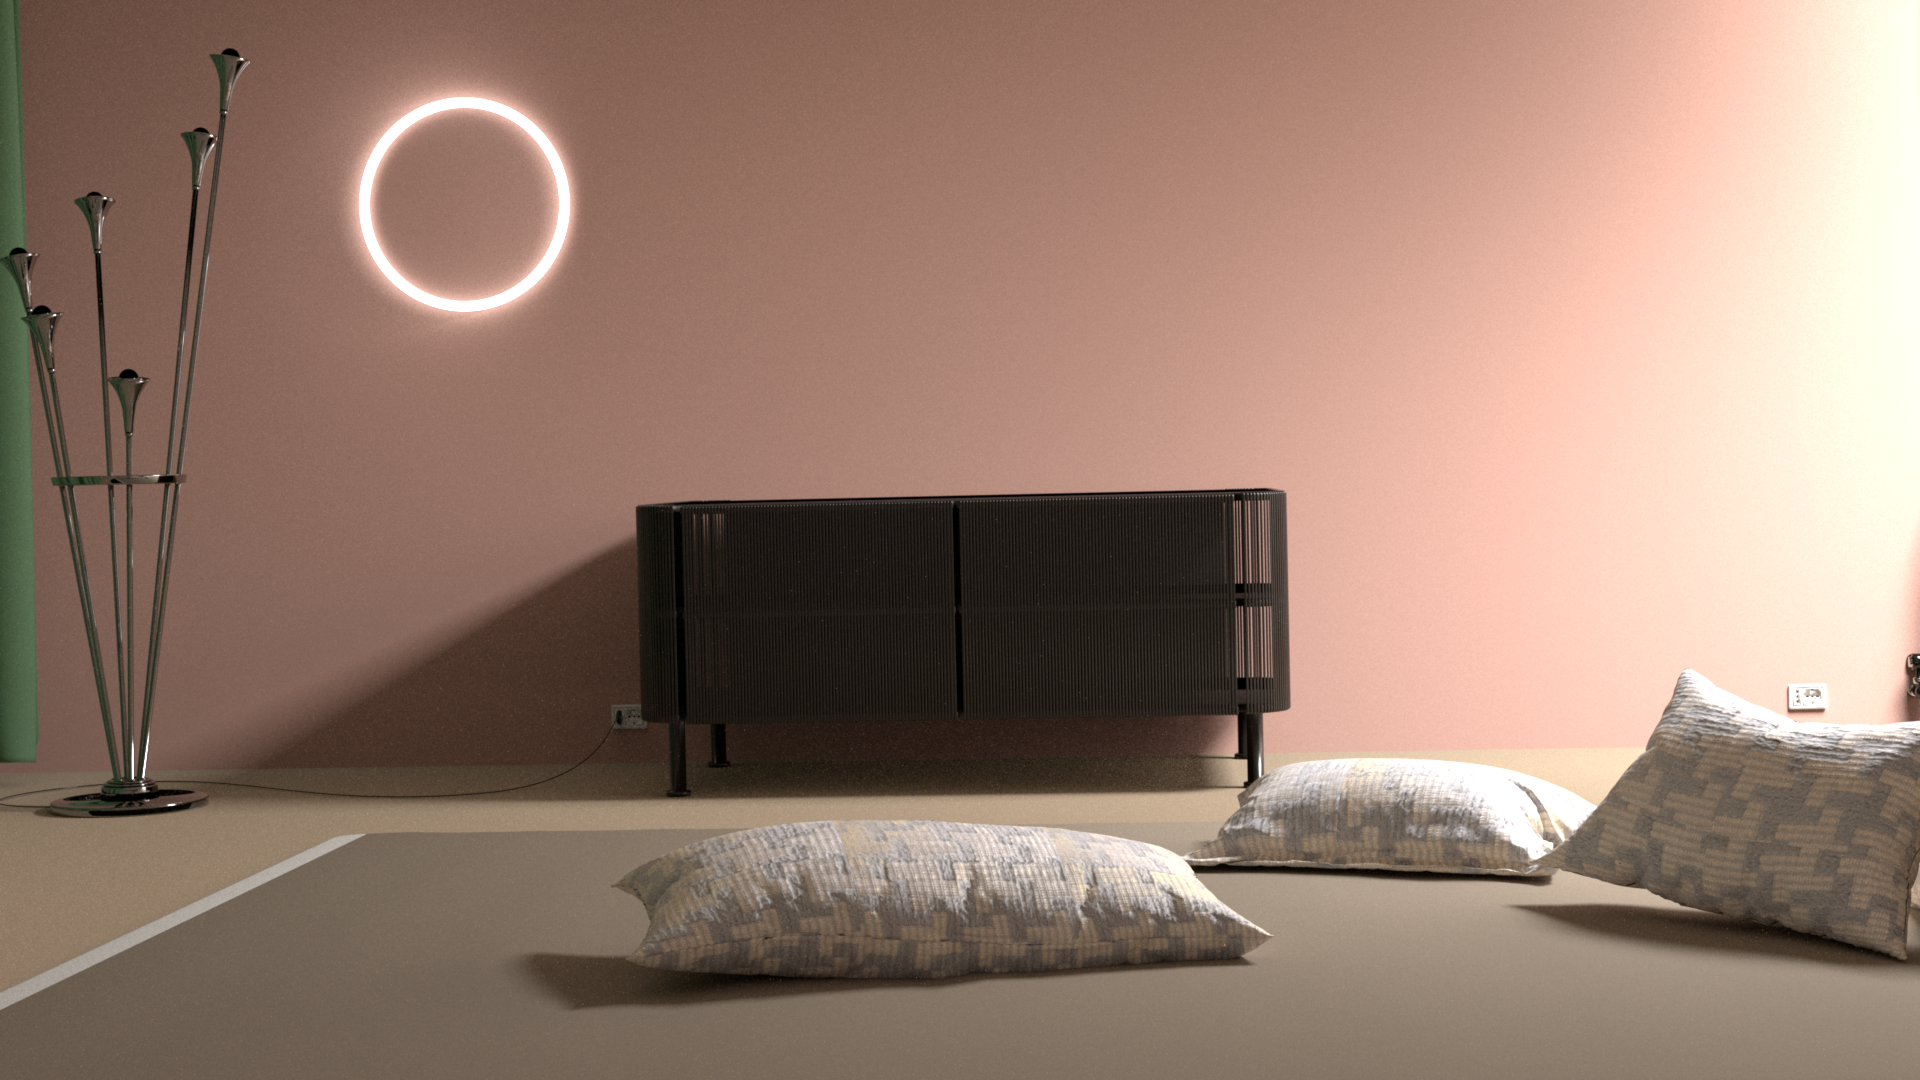
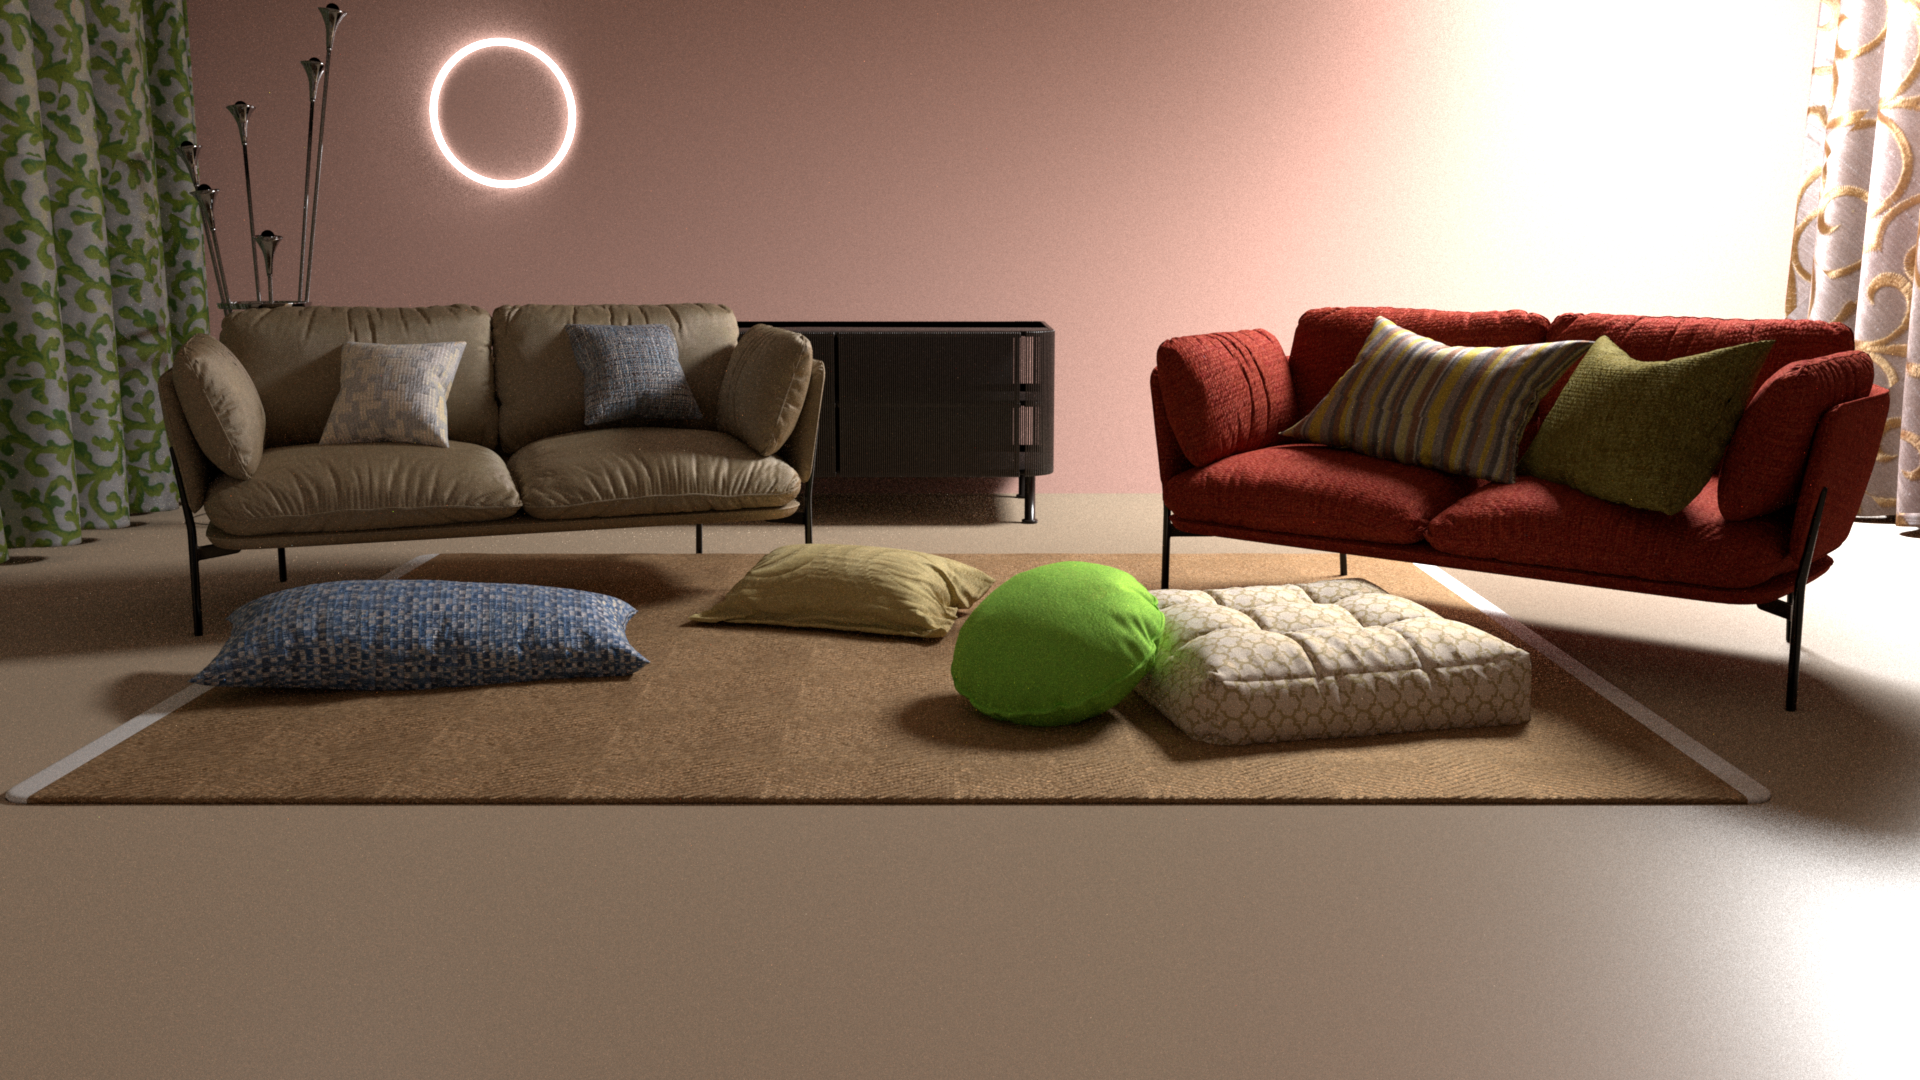
docs: update teaser + merge two-stage pipeline figure
- Replace docs/images/teaser.png with the new 3dv_paper teaser render
- Rebuild docs/images/pipeline.png by stacking pipeline_stage1 + pipeline_stage2
  (equal-width, "Stage 1"/"Stage 2" labels, hairline divider)
- Bump image cache-bust v31 -> v32 in index.html so the new figures refresh

diff --git a/docs/index.html b/docs/index.html
@@ -44,7 +44,7 @@
          is missing the <img>'s onerror swaps in the placeholder text so
          the page still looks intentional. -->
     <div class="teaser-box" id="teaser" style="padding:0; border:none; background:transparent;">
-        <img src="images/teaser.png" alt="Cloth-BRDF teaser figure"
+        <img src="images/teaser.png?v=32" alt="Cloth-BRDF teaser figure"
              style="max-width:100%; display:block; margin:0 auto; border-radius:8px;"
              onerror="this.parentNode.innerHTML='&lt;div style=&quot;padding:2rem;border:1px dashed var(--border);border-radius:8px;color:var(--muted);text-align:center&quot;&gt;&lt;strong&gt;Teaser placeholder&lt;/strong&gt;&lt;br&gt;&lt;span style=&quot;font-size:0.88rem&quot;&gt;Drop a figure at &lt;code&gt;webpage/images/teaser.png&lt;/code&gt; to enable.&lt;/span&gt;&lt;/div&gt;';">
     </div>
@@ -143,7 +143,7 @@
     <h3>Neural Decoder Training Pipeline</h3>
     <div class="section-rule"></div>
     <div style="text-align:center">
-        <img src="images/pipeline.png?v=31" alt="Two-stage neural BRDF decoder training pipeline"
+        <img src="images/pipeline.png?v=32" alt="Two-stage neural BRDF decoder training pipeline"
              style="max-width:100%; height:auto; display:block; margin:0 auto; border-radius:8px;">
     </div>
 </section>
